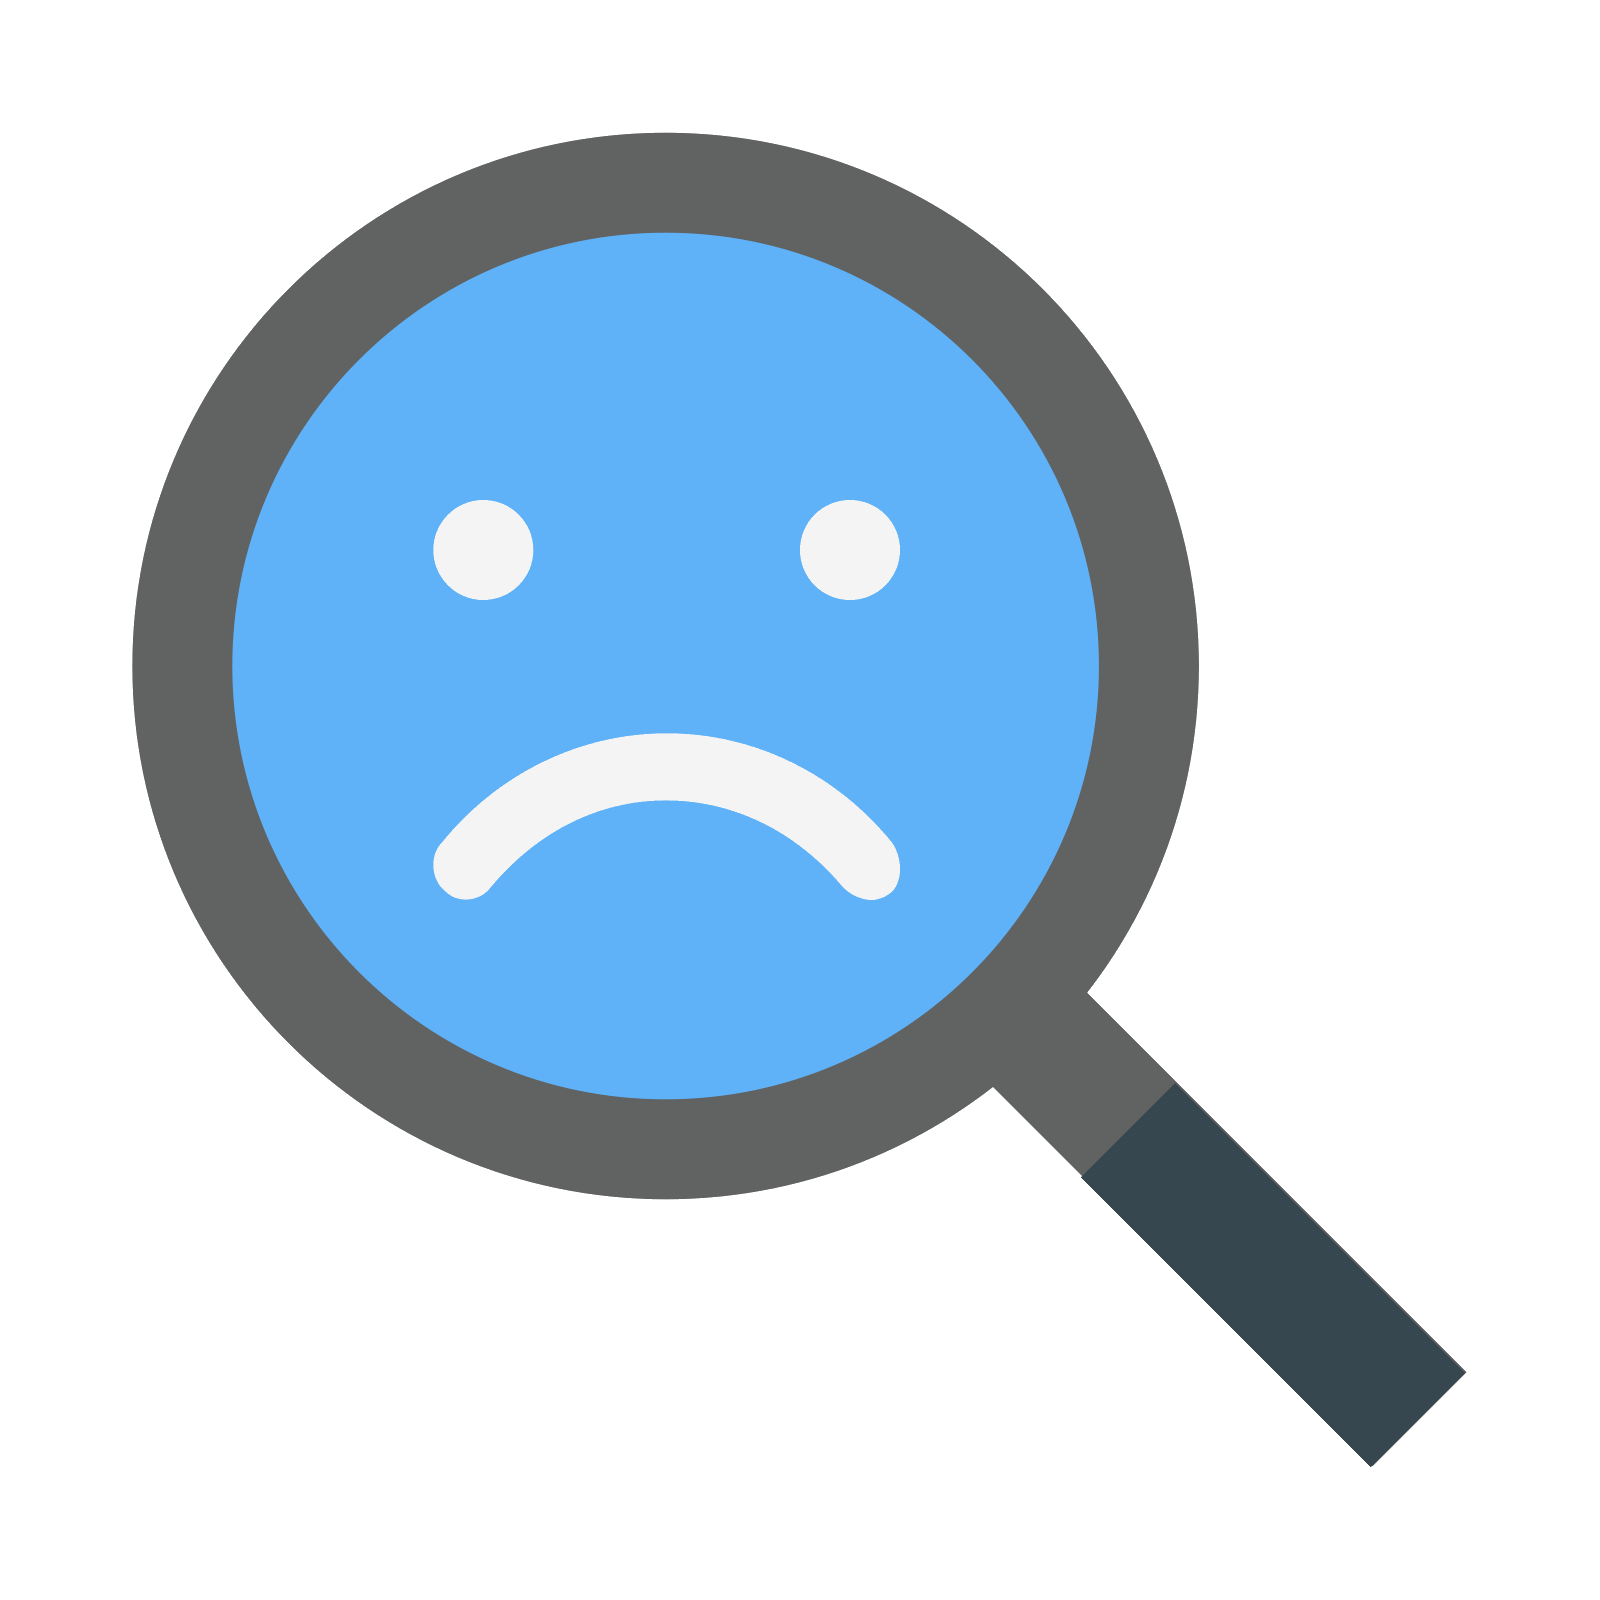
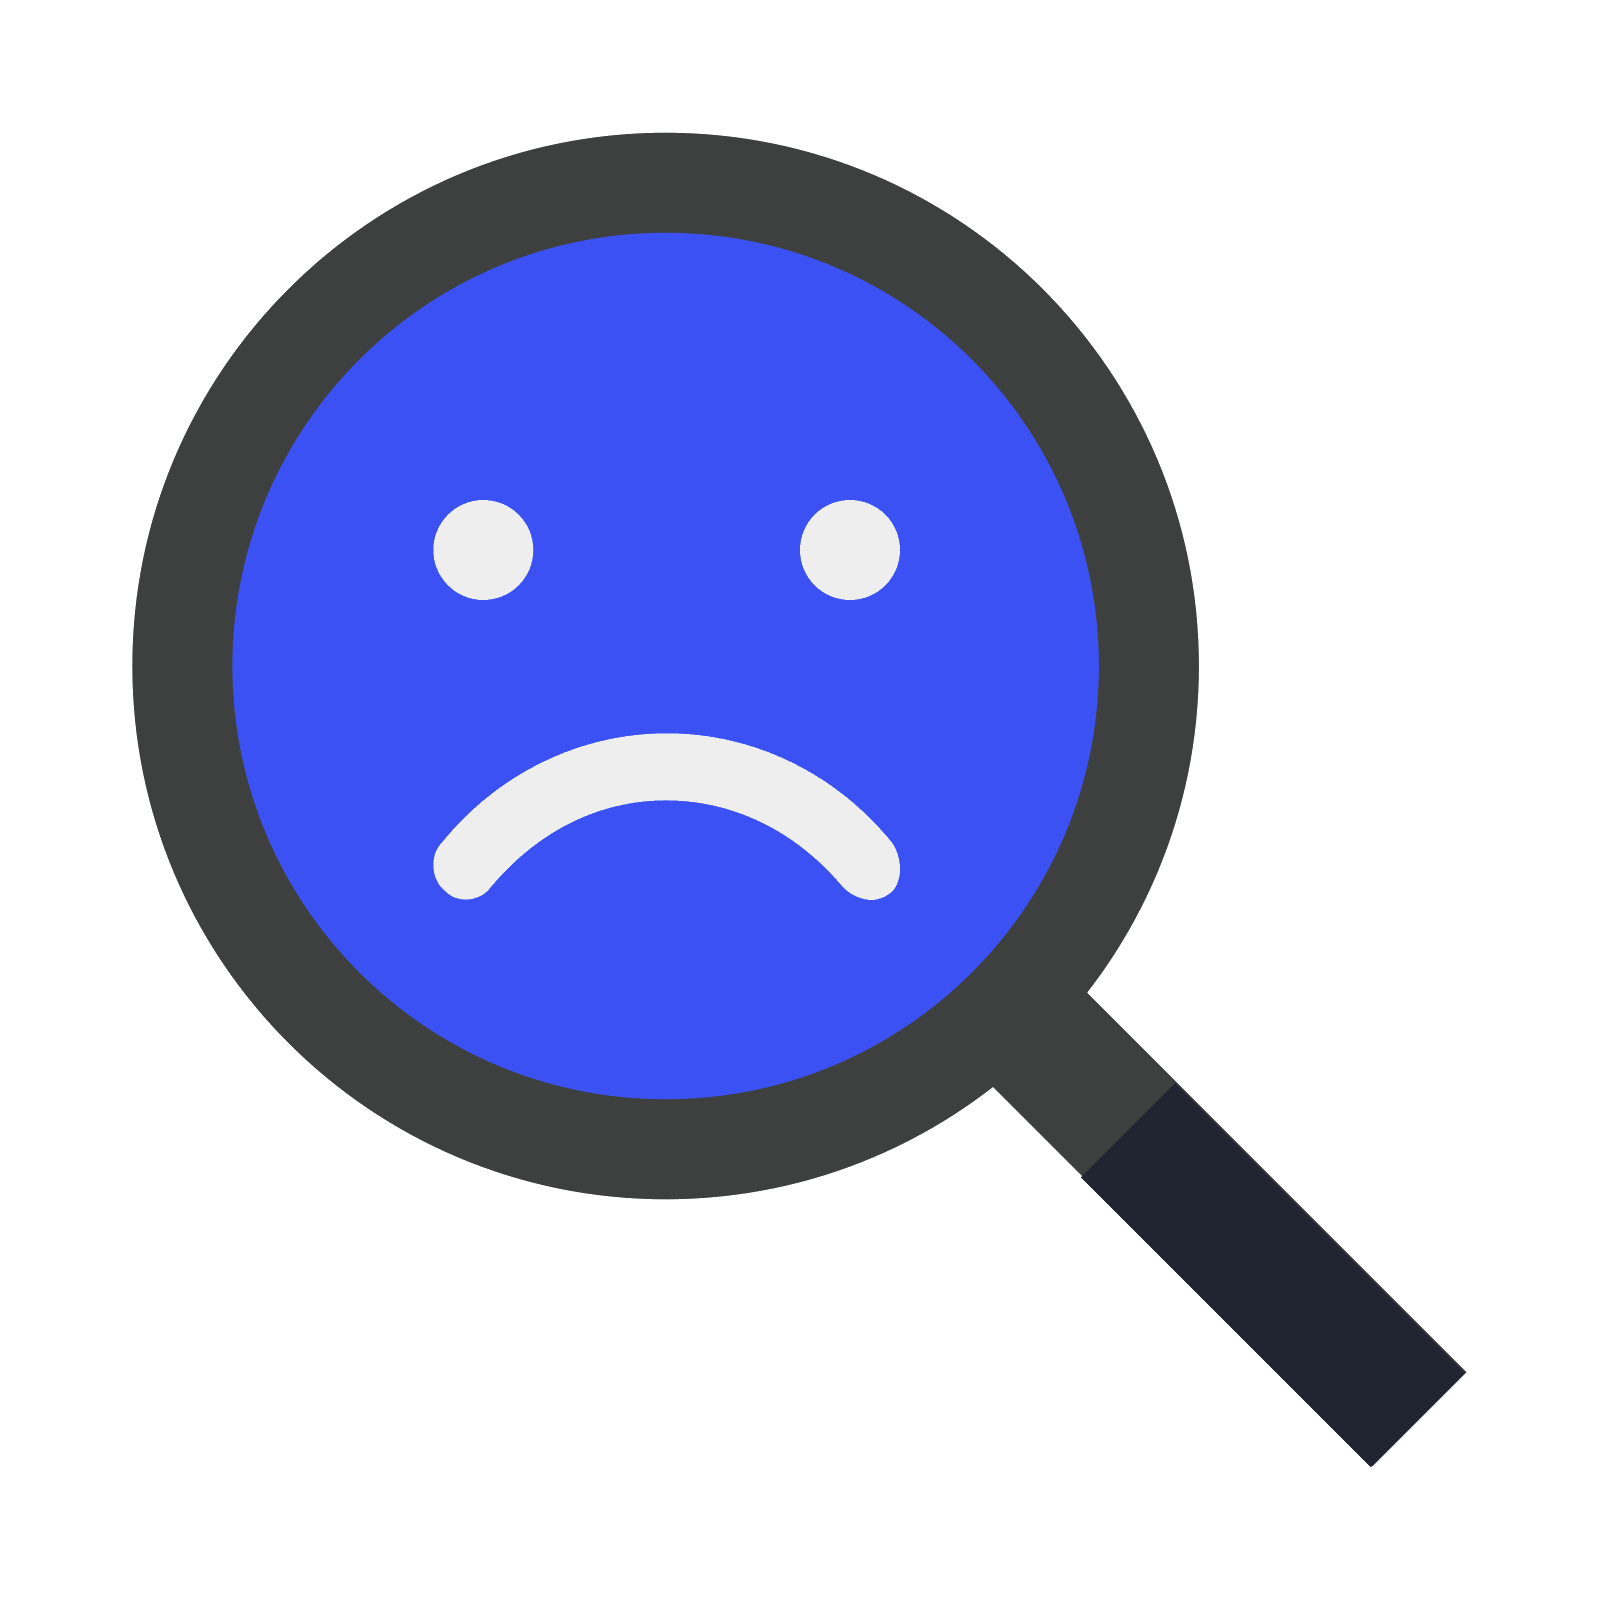
Заменяет картинки и базовые стили

diff --git a/src/index.css b/src/index.css
@@ -1,16 +1,4 @@
-/* body {
-  margin: 0;
-  font-family: -apple-system, BlinkMacSystemFont, 'Segoe UI', 'Roboto', 'Oxygen',
-    'Ubuntu', 'Cantarell', 'Fira Sans', 'Droid Sans', 'Helvetica Neue',
-    sans-serif;
-  -webkit-font-smoothing: antialiased;
-  -moz-osx-font-smoothing: grayscale;
-}
-
-code {
-  font-family: source-code-pro, Menlo, Monaco, Consolas, 'Courier New',
-    monospace;
-} */
+@import url('https://fonts.googleapis.com/css2?family=Quicksand:wght@400;500;700&display=swap');
 
 html {
   box-sizing: border-box;
@@ -26,8 +14,8 @@ html {
 
 body {
   margin: 0;
-  font-family: -apple-system, BlinkMacSystemFont, 'Segoe UI', Roboto,
-    Oxygen-Sans, Ubuntu, Cantarell, 'Helvetica Neue', sans-serif;
+  background-image: url('./img/photos.jpg');
+  font-family: 'Quicksand', sans-serif;
   color: #212121;
   background-color: #fff;
   -webkit-font-smoothing: antialiased;
@@ -38,145 +26,6 @@ img {
   display: block;
   max-width: 100%;
   height: auto;
-}
-
-/*
- * Стили компонента App
- */
-.App {
-  display: grid;
-  grid-template-columns: 1fr;
-  grid-gap: 16px;
-  padding-bottom: 24px;
-}
-
-/*
- * Стили компонента ImageGallery
- */
-.ImageGallery {
-  display: grid;
-  max-width: calc(100vw - 48px);
-  grid-template-columns: repeat(auto-fill, minmax(320px, 1fr));
-  grid-gap: 16px;
-  margin-top: 0;
-  margin-bottom: 0;
-  padding: 0;
-  list-style: none;
-  margin-left: auto;
-  margin-right: auto;
-}
-
-/*
- * Стили компонента ImageGalleryItem
- */
-.ImageGalleryItem {
-  border-radius: 2px;
-  box-shadow: 0px 1px 3px 0px rgba(0, 0, 0, 0.2),
-    0px 1px 1px 0px rgba(0, 0, 0, 0.14), 0px 2px 1px -1px rgba(0, 0, 0, 0.12);
-}
-
-.ImageGalleryItem-image {
-  width: 100%;
-  height: 260px;
-  object-fit: cover;
-  transition: transform 250ms cubic-bezier(0.4, 0, 0.2, 1);
-}
-
-.ImageGalleryItem-image:hover {
-  transform: scale(1.03);
-  cursor: zoom-in;
-}
-
-/*
- * Стили компонента Modal
- */
-
-.Overlay {
-  position: fixed;
-  top: 0;
-  left: 0;
-  width: 100vw;
-  height: 100vh;
-  display: flex;
-  justify-content: center;
-  align-items: center;
-  background-color: rgba(0, 0, 0, 0.8);
-  z-index: 1200;
-}
-
-.Modal {
-  max-width: calc(100vw - 48px);
-  max-height: calc(100vh - 24px);
-}
-
-/*
-* Стили компонента Buton (Load more)
-*/
-.Button {
-  padding: 8px 16px;
-  border-radius: 2px;
-  background-color: #3f51b5;
-  transition: all 250ms cubic-bezier(0.4, 0, 0.2, 1);
-  text-align: center;
-  display: inline-block;
-  color: #fff;
-  border: 0;
-  text-decoration: none;
-  cursor: pointer;
-  font-family: inherit;
-  font-size: 18px;
-  line-height: 24px;
-  font-style: normal;
-  font-weight: 500;
-  min-width: 180px;
-  box-shadow: 0px 3px 1px -2px rgba(0, 0, 0, 0.2),
-    0px 2px 2px 0px rgba(0, 0, 0, 0.14), 0px 1px 5px 0px rgba(0, 0, 0, 0.12);
-}
-
-.Button:hover,
-.Button:focus {
-  background-color: #303f9f;
-}
-
-/* мои стили */
-/* @import url('https://fonts.googleapis.com/css?family=Comfortaa'); */
-
-@import url('https://fonts.googleapis.com/css2?family=Playfair+Display:wght@400;500;700&display=swap');
-
-:root {
-  --textColor: #212121;
-  --primaryWhiteColor: #ffffff;
-  --bgColor: #d8bfd8;
-  --darkVioletColor: #391d35;
-  --violetColor: #613d5c;
-  --shadow-dark: gray 1px 1px 10px, gray -1px -1px 10px, gray -1px 1px 10px,
-    gray 1px -1px 10px;
-  --transition: transform 250ms cubic-bezier(0.4, 0, 0.2, 1);
-}
-
-html {
-  box-sizing: border-box;
-}
-
-*,
-*::before,
-*::after {
-  box-sizing: inherit;
-}
-
-body {
-  background-image: url('./img/photos.jpg');
-  /* font-family: 'Comfortaa', cursive; */
-  font-family: 'Playfair Display', serif;
-
-  font-weight: 500;
-  font-size: 12px;
-  line-height: 1.33;
-}
-
-a {
-  text-decoration: none;
-  outline: none;
 }
 
 ul {
@@ -200,23 +49,4 @@ button {
 
 li {
   list-style: none;
-}
-
-img {
-  display: block;
-  max-width: 100%;
-  height: auto;
-}
-
-h1 {
-  text-align: center;
-  font-weight: 700;
-  font-size: 25px;
-  color: var(--violetColor);
-}
-
-h2 {
-  font-weight: 700;
-  font-size: 20px;
-  color: var(--violetColor);
 }

diff --git a/src/index.js b/src/index.js
@@ -11,8 +11,3 @@ ReactDOM.render(
   </React.StrictMode>,
   document.getElementById('root'),
 );
-
-// If you want to start measuring performance in your app, pass a function
-// to log results (for example: reportWebVitals(console.log))
-// or send to an analytics endpoint. Learn more: https://bit.ly/CRA-vitals
-reportWebVitals();
